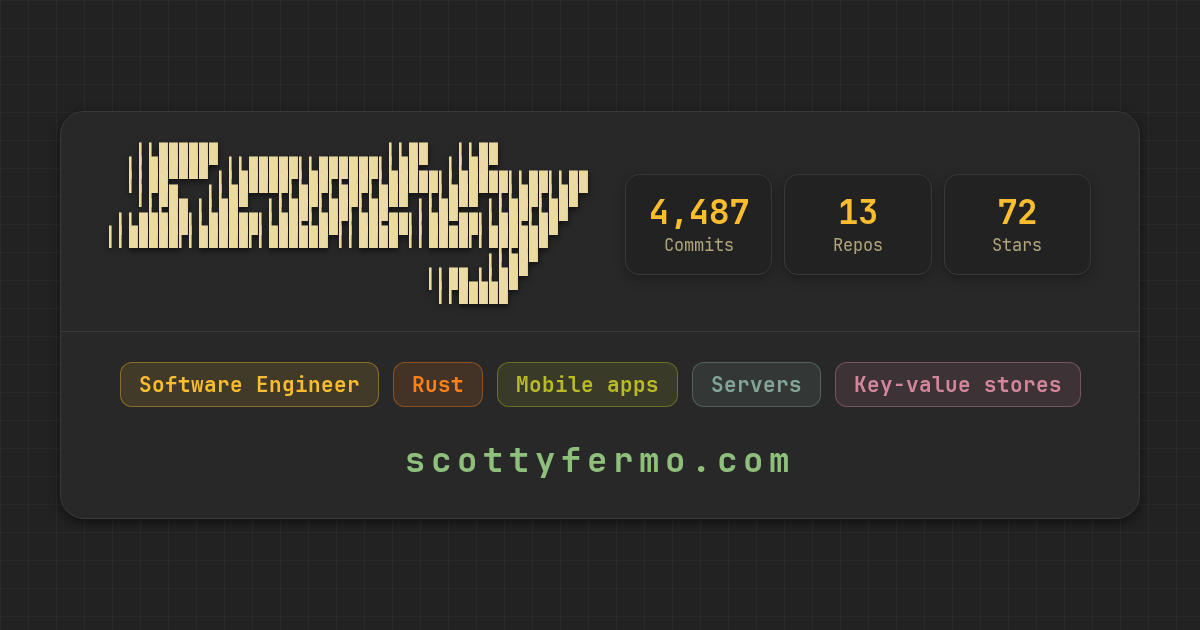
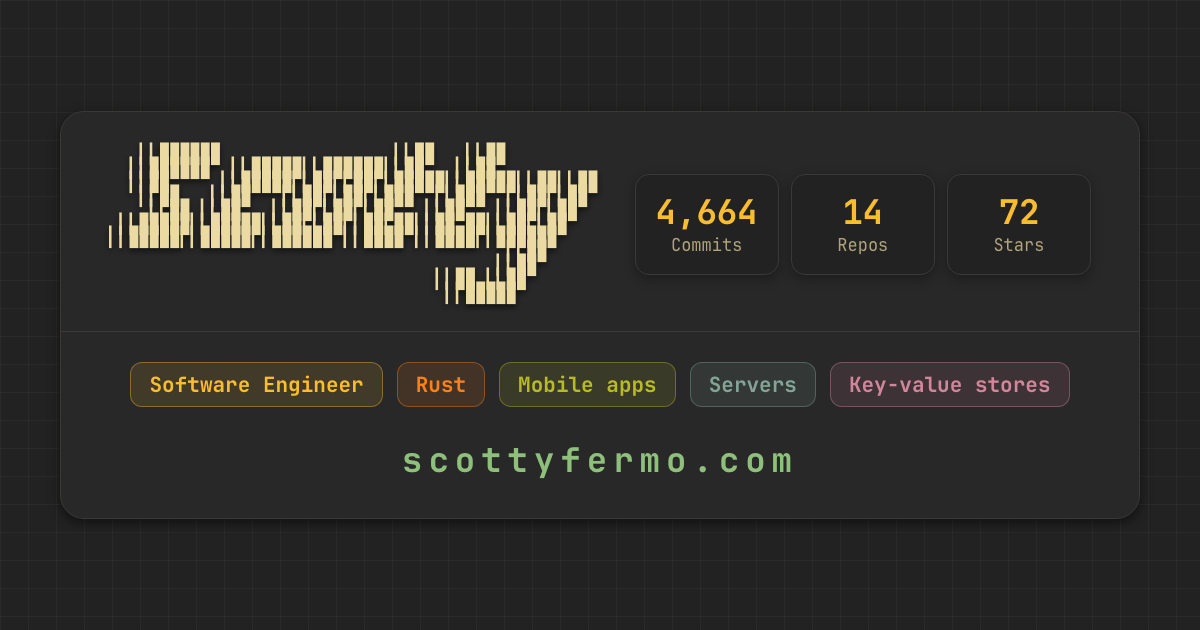
OG card: refresh the counters

diff --git a/context/marketing/og_default.html b/context/marketing/og_default.html
@@ -187,8 +187,8 @@ body {
                                 ▎▎▉▉ ▎▎▉▉
                                  ▎▎▉▉▉▉▉</pre>
       <div class="stats">
-        <div class="stat"><span class="stat-num">4,487</span><span class="stat-label">Commits</span></div>
-        <div class="stat"><span class="stat-num">13</span><span class="stat-label">Repos</span></div>
+        <div class="stat"><span class="stat-num">4,664</span><span class="stat-label">Commits</span></div>
+        <div class="stat"><span class="stat-num">14</span><span class="stat-label">Repos</span></div>
         <div class="stat"><span class="stat-num">72</span><span class="stat-label">Stars</span></div>
       </div>
     </div>
